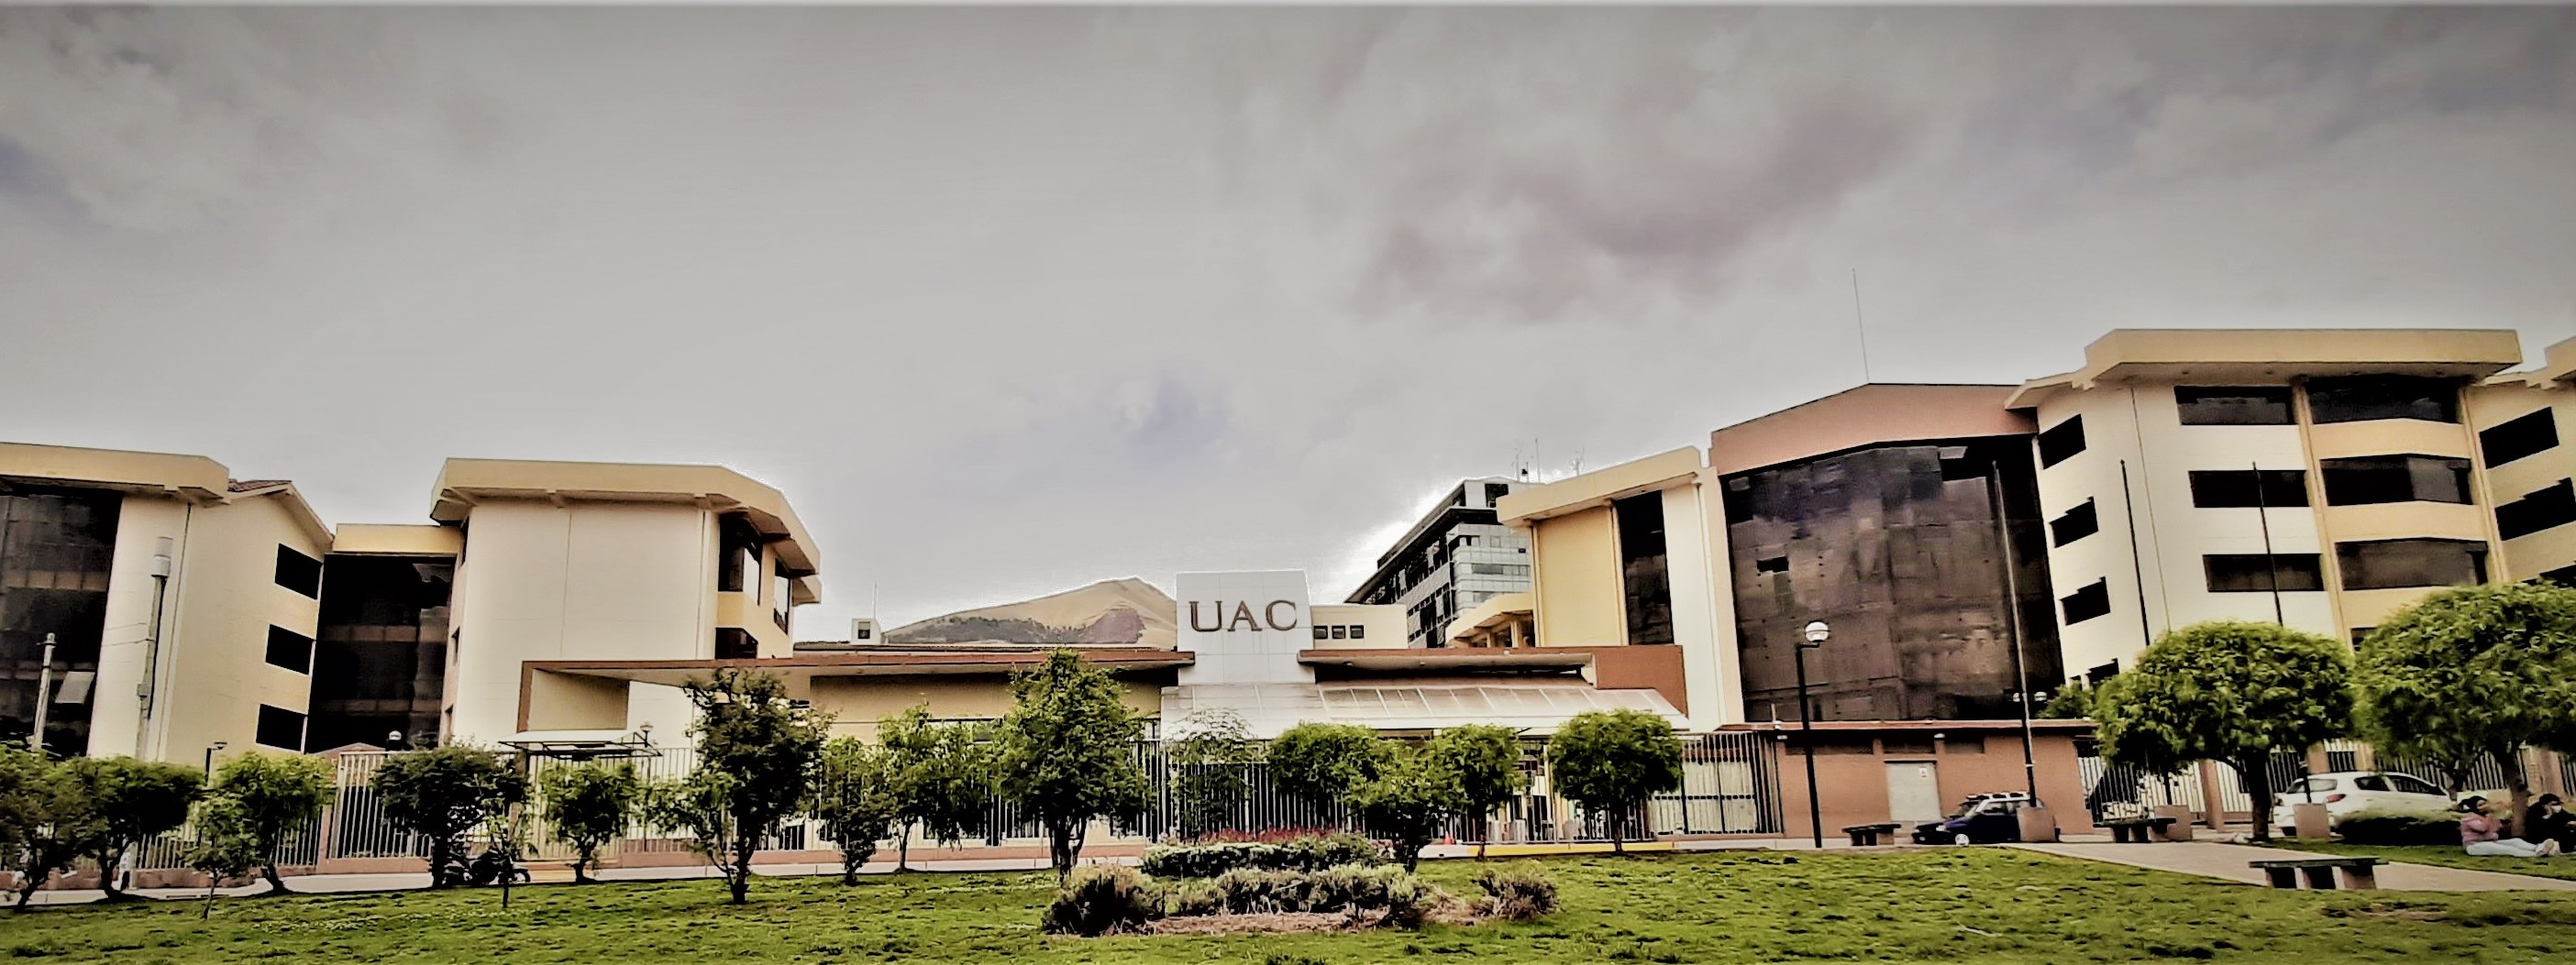
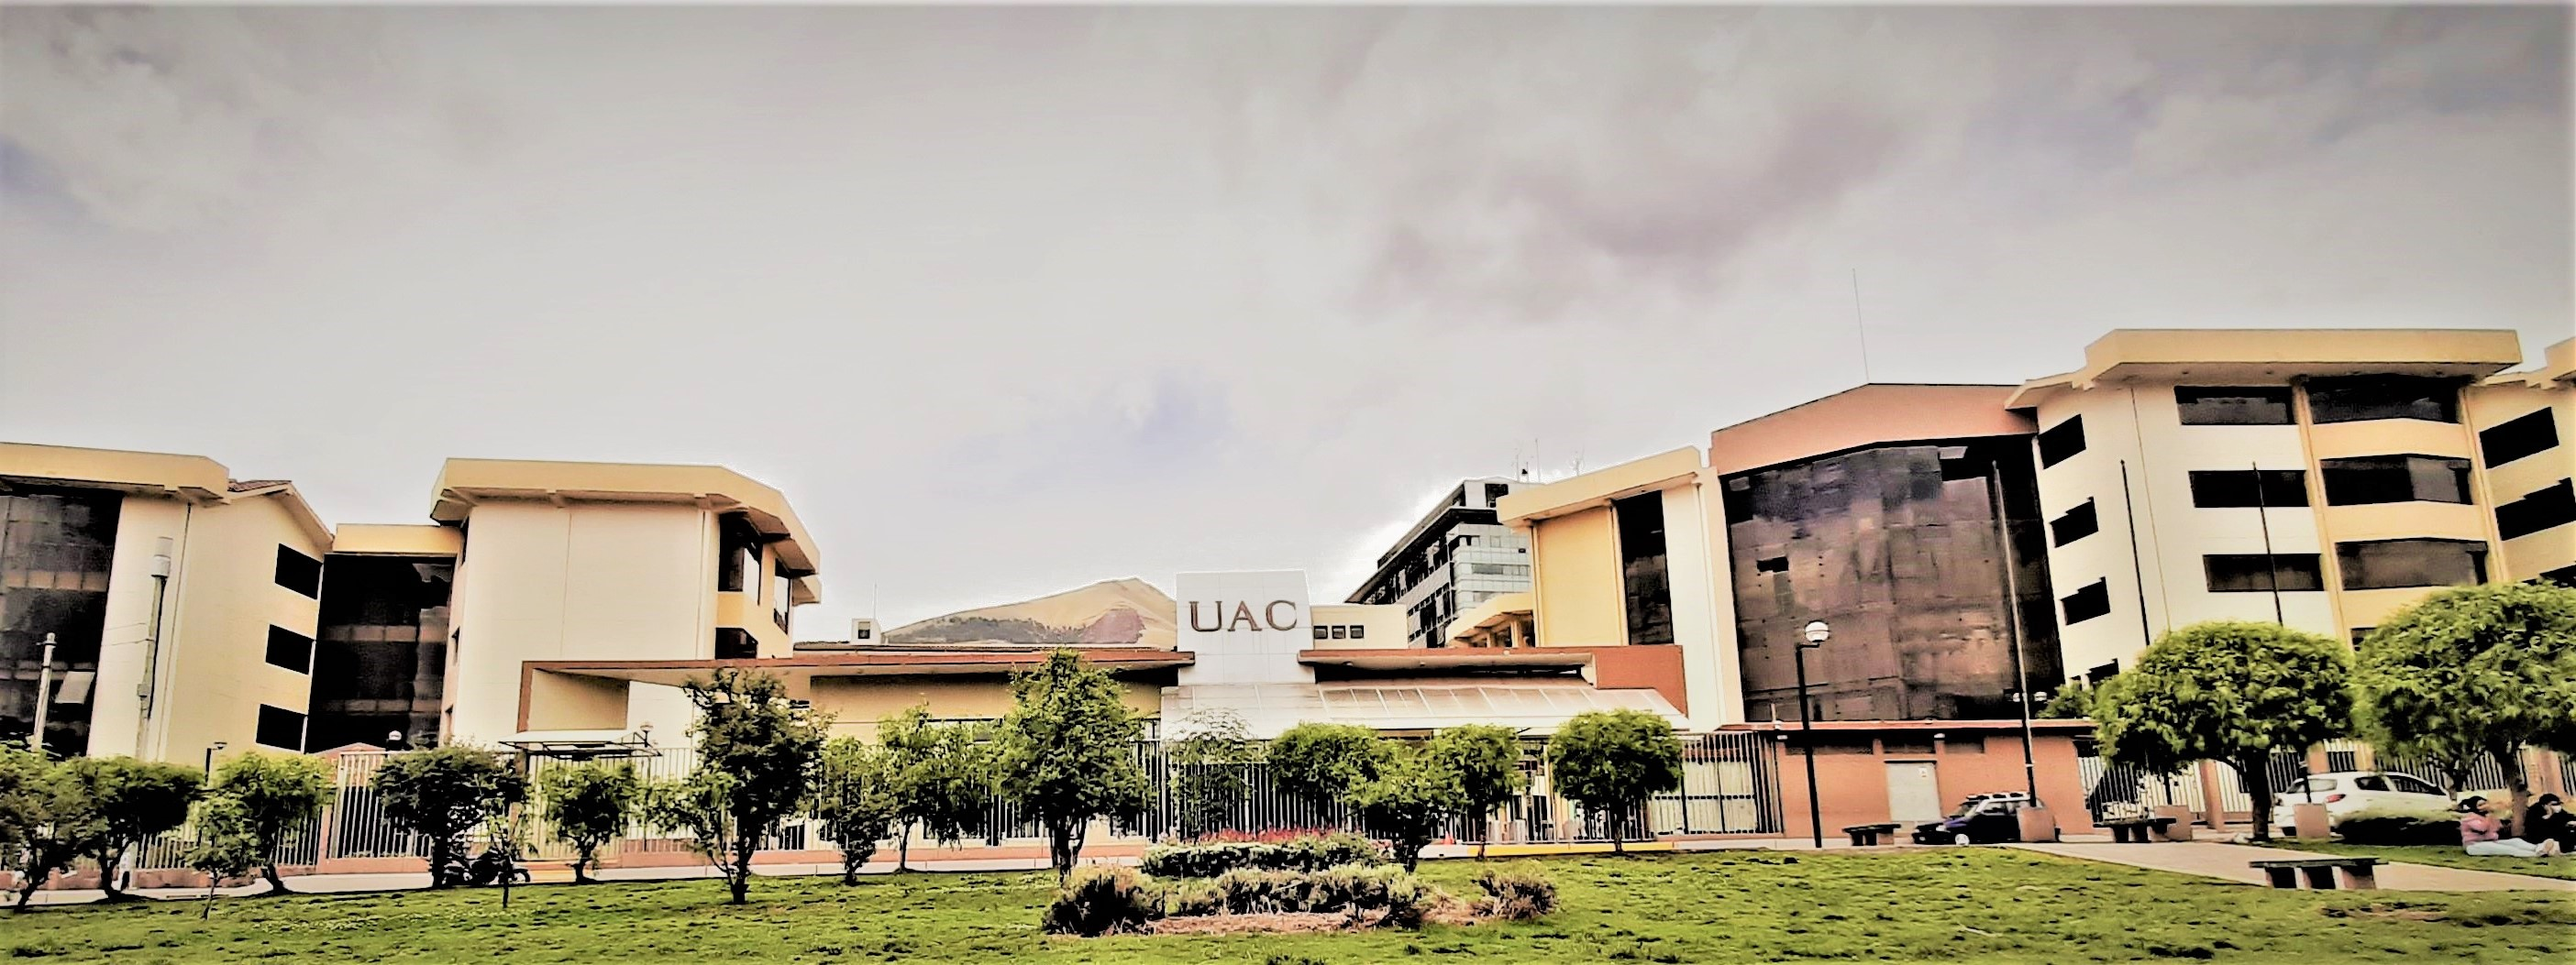
login2

diff --git a/src/app/component/seguridad/login/login.component.css b/src/app/component/seguridad/login/login.component.css
@@ -10,7 +10,7 @@
   background-repeat: no-repeat;
   background-size: 100% 100%;
   background-image: url('./../../../../assets/img/andina/uac6.jpg');
-  opacity: 95%;
+  opacity: 90%;
 }
 .example-fill-remaining-space {
     flex: 1 1 auto;
